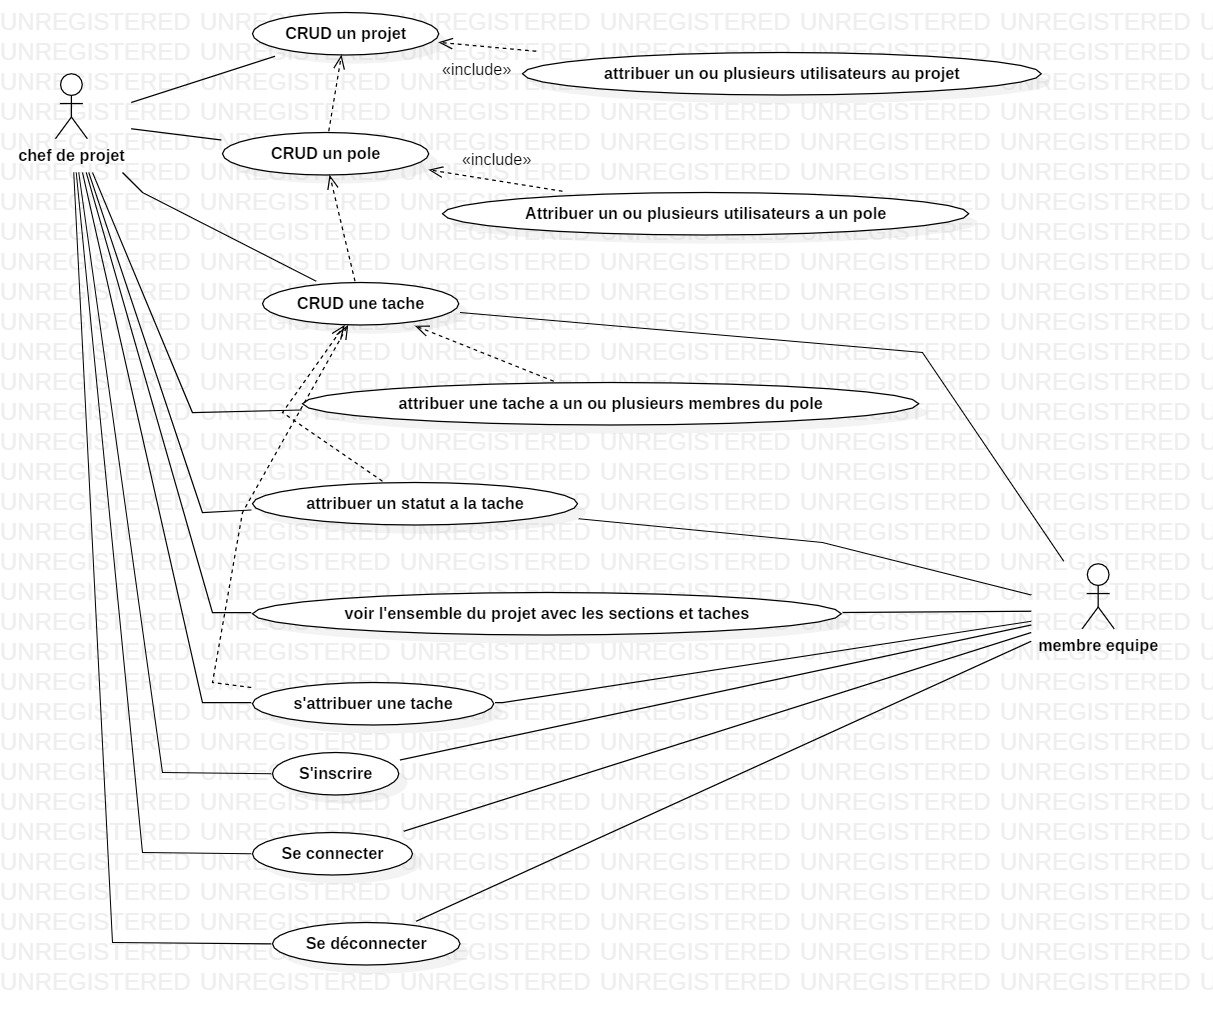
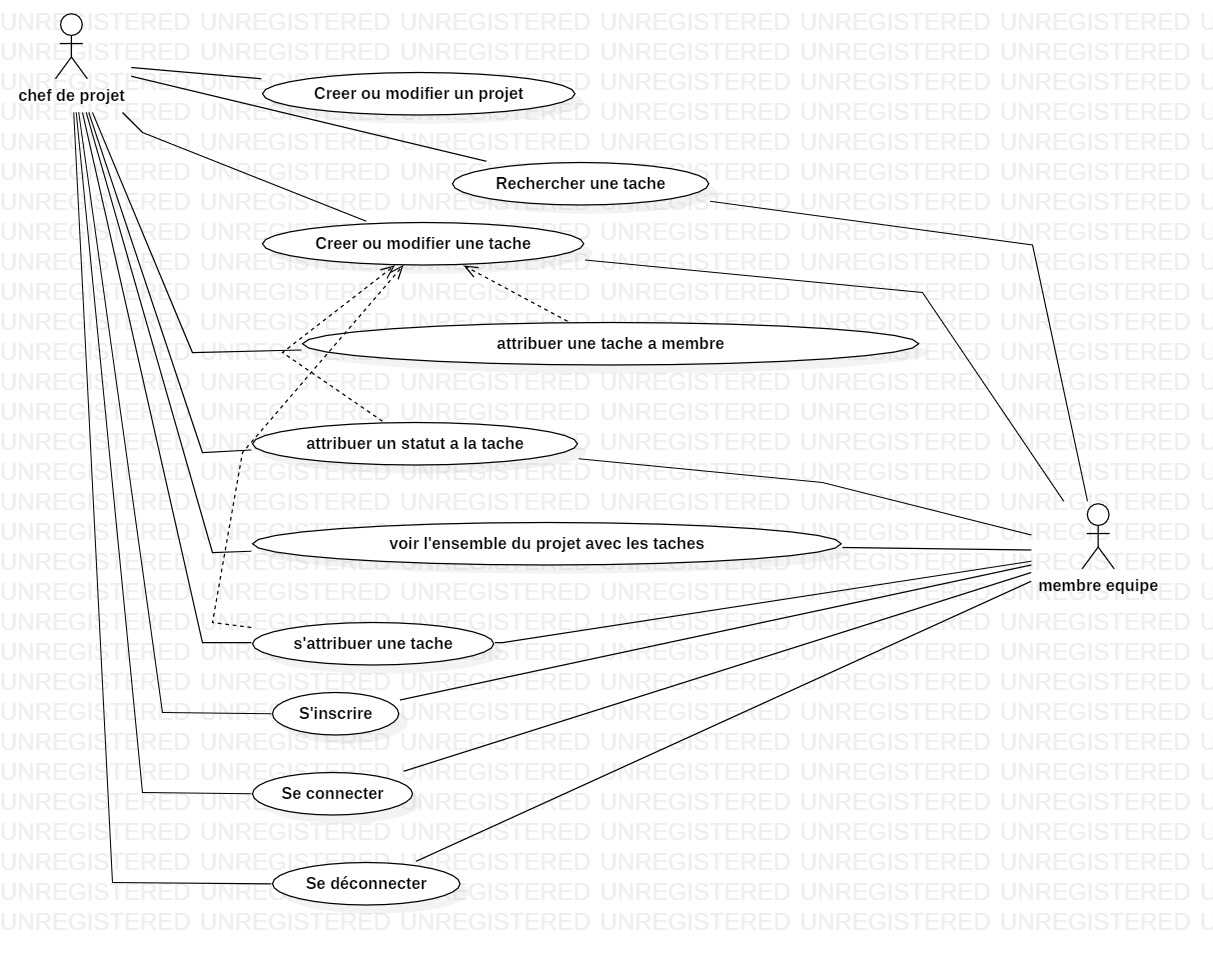
delete poles features and update diagrams

diff --git a/back/controllers/projects.js b/back/controllers/projects.js
@@ -14,7 +14,7 @@ projectsRouter.get('/', async (req, res) => {
 projectsRouter.get('/:id', async (req, res) => {
     const auth = req.currentUser;
     if (auth) {
-        const project = await Project.findById(req.params.id).populate('poles', 'tasks');
+        const project = await Project.findById(req.params.id).populate('tasks');
         if(!project) {
             return res.status(400).send('Project not found');
         }
@@ -28,7 +28,7 @@ projectsRouter.get('/edit/:id', async (req, res) => {
     const auth = req.currentUser;
     if (auth) {
         try {
-            const project = await Project.findById(req.params.id).populate('poles', 'tasks');
+            const project = await Project.findById(req.params.id).populate('tasks');
             if(!project) {
                 return res.status(400).send('Project not found');
             }

diff --git a/front/src/app/store.js b/front/src/app/store.js
@@ -1,7 +1,6 @@
 import { configureStore } from '@reduxjs/toolkit';
 import projectsReducer from "../features/projects/projectsSlice";
 import projectReducer from "../features/projects/projectSlice";
-import polesReducer from "../features/poles/polesSlice";
 import tasksReducer from "../features/tasks/tasksSlice";
 import usersReducer from "../features/users/usersSlice";
 import  userSlice  from '../features/users/userSlice';
@@ -10,7 +9,6 @@ export default configureStore({
   reducer: {
     projects: projectsReducer,
     project: projectReducer,
-    poles:polesReducer,
     tasks:tasksReducer,
     users: usersReducer,
     user: userSlice,

diff --git a/front/src/App.js b/front/src/App.js
@@ -5,9 +5,7 @@ import { BrowserRouter as Router, Route, Switch, useParams } from 'react-router-
 import Login from "./features/session/Login";
 import Projects from "./features/projects/Projects";
 import Project from "./features/projects/Project";
-import EditProject from "./features/projects/EditProject"
-import Poles from "./features/poles/Poles"
-import Tasks from "./features/tasks/Tasks"
+import EditProject from "./features/projects/EditProject";
 import Signup from "./features/session/Signup";
 import store from "./app/store";
 

diff --git a/back/index.js b/back/index.js
@@ -3,7 +3,6 @@ const mongoose = require('mongoose');
 const cors = require('cors');
 const decodeIDToken = require('./authenticateToken');
 const projectsRouter = require('./controllers/projects');
-const polesRouter = require('./controllers/poles');
 const tasksRouter = require('./controllers/tasks');
 
 const app = express();
@@ -38,7 +37,6 @@ mongoose.connect(
 
 
 app.use('/projects', projectsRouter);
-app.use('/poles', polesRouter);
 app.use('/tasks', tasksRouter);
 app.use('/users', usersRouter)
 
